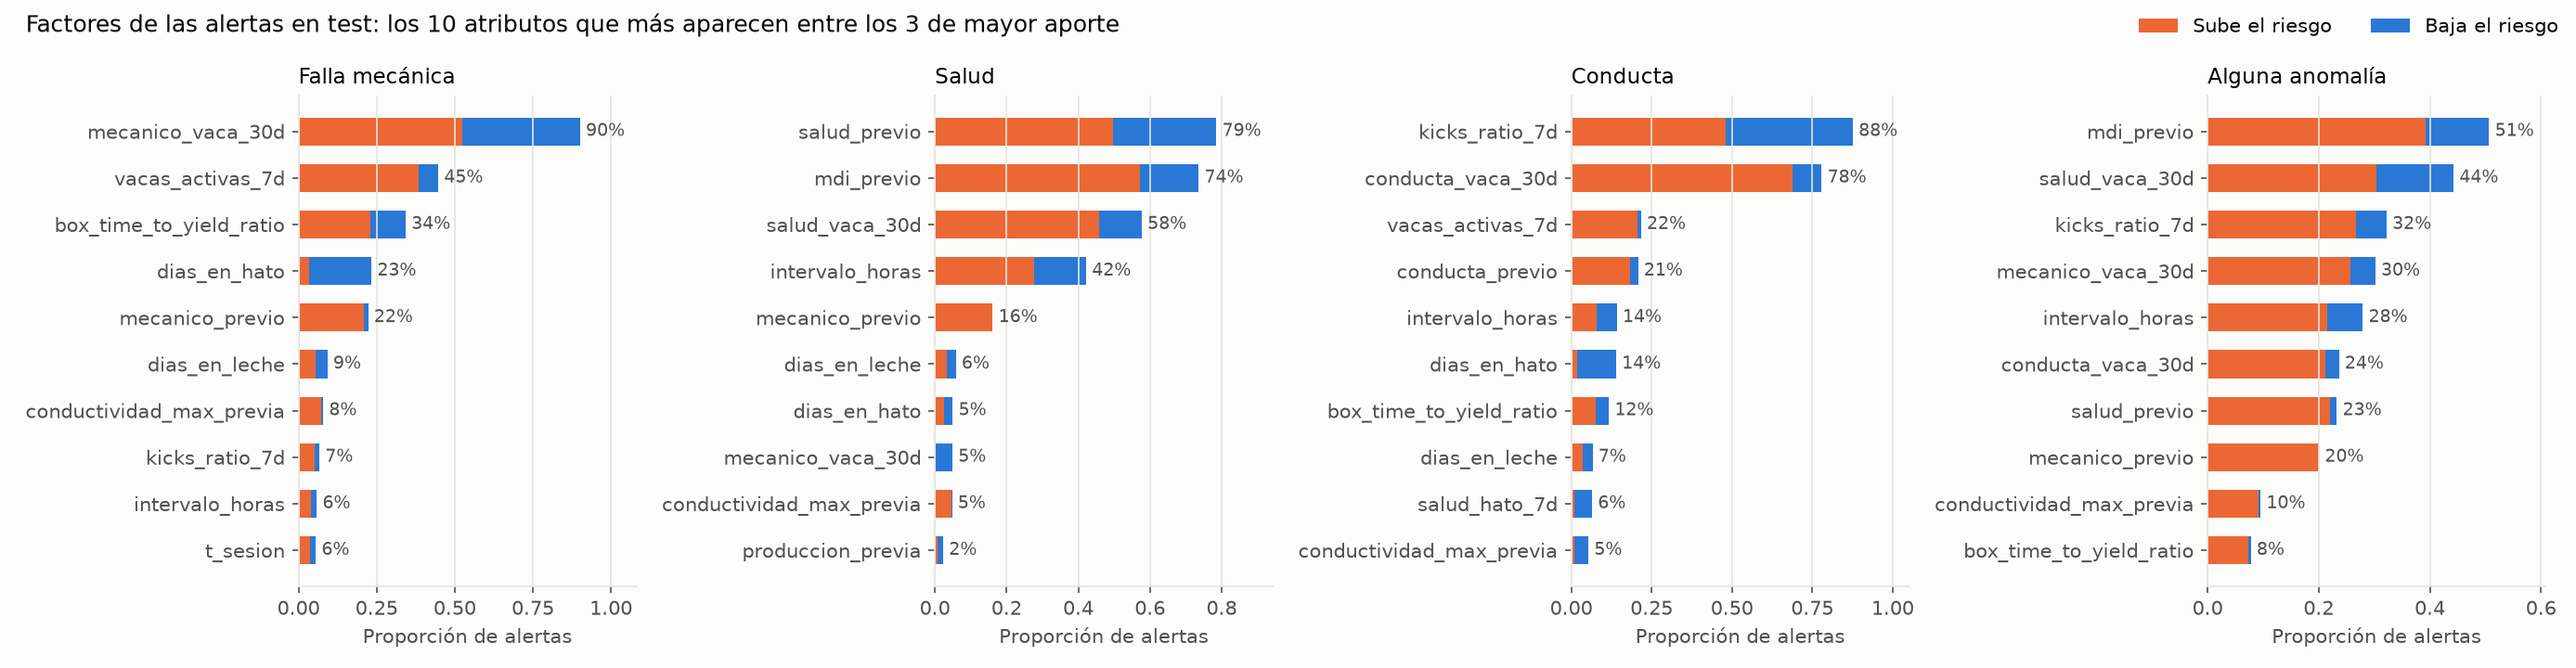
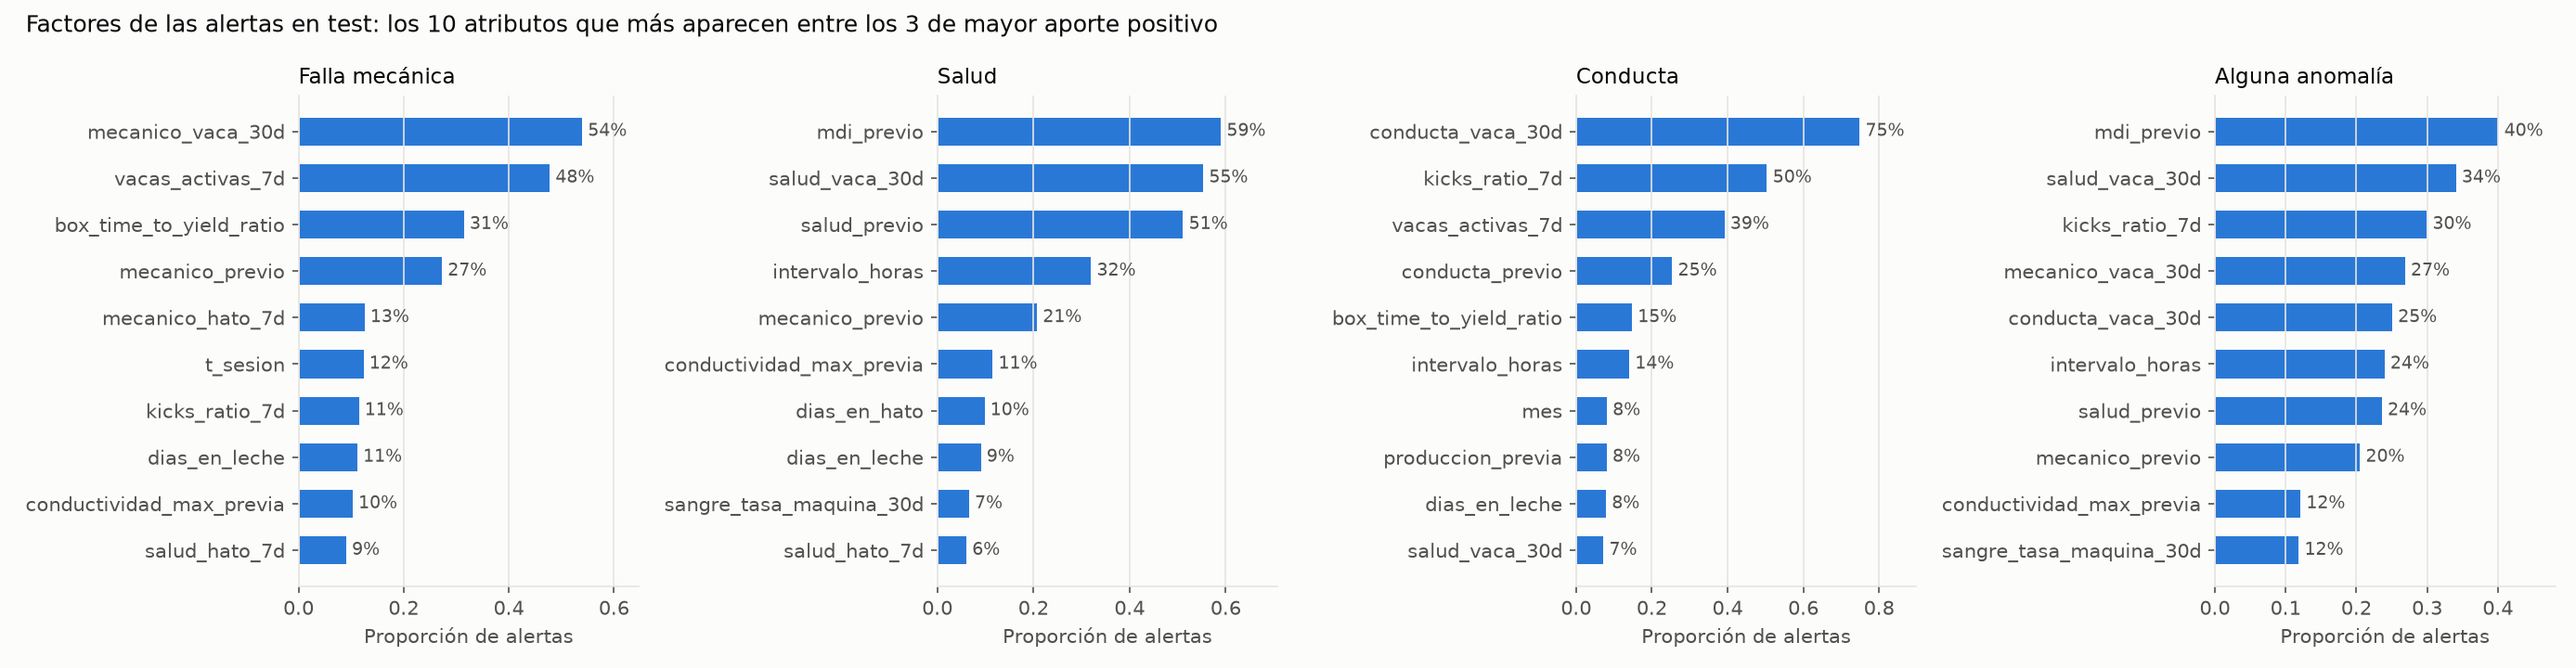
update: factores SHAP positivos del XGBoost según el diseño de pruebas

diff --git a/src/MODELING/XGBoost/plots.py b/src/MODELING/XGBoost/plots.py
@@ -141,31 +141,11 @@ def shap_importance(contributions):
 
 
 def top_factor_share(factors):
-    """
-    13. Proporción de alertas de test en que cada atributo es uno de sus 3 factores (mayor aporte en
-    valor absoluto), separada según si el aporte sube (naranja) o baja (azul) el riesgo.
-    """
-    fig, axes = plt.subplots(1, len(EVENTS), figsize=(18.5, 4.8))
-    for i, f in enumerate(factors):
-        names = f.filter(like="factor_").to_numpy().ravel()
-        up = f.filter(like="aporte_").to_numpy().ravel() > 0
-        share = pd.DataFrame({"sube": pd.Series(names[up]).value_counts(),
-                              "baja": pd.Series(names[~up]).value_counts()}).fillna(0) / len(f)
-        top = share.assign(total=share.sum(axis=1)).sort_values("total").tail(TOP_FEATURES)
-        ax = axes[i]
-        ax.barh(top.index, top["sube"], color=SERIES["val"], height=0.6, label="Sube el riesgo")
-        ax.barh(top.index, top["baja"], left=top["sube"], color=SERIES["train"], height=0.6, label="Baja el riesgo")
-        for y_pos, value in enumerate(top["total"]):
-            ax.annotate(f"{value:.0%}", (value, y_pos), xytext=(3, 0), textcoords="offset points",
-                        va="center", fontsize=9, color=MUTED)
-        ax.set_title(EVENT_NAMES[i], loc="left")
-        ax.set_xlabel("Proporción de alertas")
-        ax.set_xlim(0, top["total"].max() * 1.2)
-        ax.grid(axis="y", visible=False)
-    fig.legend(*axes[0].get_legend_handles_labels(), loc="upper right", ncol=2)
-    fig.suptitle(f"Factores de las alertas en test: los {TOP_FEATURES} atributos que más aparecen entre "
-                 "los 3 de mayor aporte", x=0.01, ha="left", fontsize=12)
-    return fig
+    """13. Proporción de alertas de test en que cada atributo es uno de sus 3 factores (mayor aporte positivo)."""
+    shares = [f.filter(like="factor_").stack().value_counts() / len(f) for f in factors]
+    return bars_by_event(shares, "Proporción de alertas", lambda value: f"{value:.0%}",
+                         f"Factores de las alertas en test: los {TOP_FEATURES} atributos que más aparecen entre "
+                         "los 3 de mayor aporte positivo")
 
 
 def weekly_performance(y, start, probabilities, metrics):

diff --git a/src/MODELING/XGBoost/evaluation.py b/src/MODELING/XGBoost/evaluation.py
@@ -62,9 +62,10 @@ def shap_contributions(model, X, slope):
 
 def top_factors(contributions, X, k=3):
     """
-    Los k aportes de mayor valor absoluto de cada sesión, como pide el diseño de pruebas: atributo,
-    su valor en la sesión y su aporte, cuyo signo es la dirección (positivo sube el riesgo y
-    negativo lo baja). El valor de "maquina" es la máquina (referencia si no tiene dummy).
+    Los k aportes positivos más grandes de cada sesión (los que más suben el riesgo), como pide el
+    diseño de pruebas: atributo, su valor en la sesión y su aporte. El valor de "maquina" es la
+    máquina (referencia si no tiene dummy); si hay menos de k aportes positivos, los que faltan
+    quedan vacíos.
     """
     machines = [column for column in X.columns if column.startswith("maquina_")]
     has_dummy = X[machines].eq(1).any(axis=1)
@@ -72,14 +73,15 @@ def top_factors(contributions, X, k=3):
     values = X.drop(columns=machines).assign(maquina=machine)[contributions.columns].to_numpy()
 
     names = contributions.columns.to_numpy()
-    order = np.argsort(-np.abs(contributions.to_numpy()), axis=1)[:, :k]
+    order = np.argsort(-contributions.to_numpy(), axis=1)[:, :k]
     rows = np.arange(len(contributions))[:, None]
     top = contributions.to_numpy()[rows, order]
     factors = {}
     for i in range(k):
-        factors[f"factor_{i + 1}"] = names[order[:, i]]
-        factors[f"valor_{i + 1}"] = values[rows[:, 0], order[:, i]]
-        factors[f"aporte_{i + 1}"] = top[:, i]
+        positive = top[:, i] > 0
+        factors[f"factor_{i + 1}"] = np.where(positive, names[order[:, i]], None)
+        factors[f"valor_{i + 1}"] = np.where(positive, values[rows[:, 0], order[:, i]], None)
+        factors[f"aporte_{i + 1}"] = np.where(positive, top[:, i], np.nan)
 
     return pd.DataFrame(factors, index=contributions.index)
 

diff --git a/src/MODELING/XGBoost/plot_results.py b/src/MODELING/XGBoost/plot_results.py
@@ -70,8 +70,8 @@ def save(fig, name):
 def explain_alerts(X, start, models, probabilities, metrics):
     """
     Aportes SHAP de cada modelo en test y 3 factores de cada alerta (probabilidad calibrada mayor o
-    igual al umbral de recall de val); guarda las alertas en ALERTS_PATH e imprime en qué proporción
-    los 3 factores suben el riesgo y el error de aditividad.
+    igual al umbral de recall de val); guarda las alertas en ALERTS_PATH e imprime qué proporción
+    tiene 3 factores positivos y el error de aditividad.
     """
     contributions, factors, alerts = [], [], []
     for event, model, probability in zip(EVENTS, models, probabilities):
@@ -81,8 +81,7 @@ def explain_alerts(X, start, models, probabilities, metrics):
         error = check_additivity(model, X, contribution, platt)
         assert error < ADDITIVITY_TOLERANCE, f"{event}: SHAP additivity error {error:.2e}"
         top = top_factors(contribution[alert], X[alert])
-        all_up = (top.filter(like="aporte_") > 0).all(axis=1).mean()
-        print(f"[shap] {event}: {alert.sum():,} alerts, {all_up:.1%} with the 3 factors raising the risk, "
+        print(f"[shap] {event}: {alert.sum():,} alerts, {top['factor_3'].notna().mean():.1%} with 3 factors, "
               f"additivity error {error:.1e}")
         contributions.append(contribution)
         factors.append(top)
